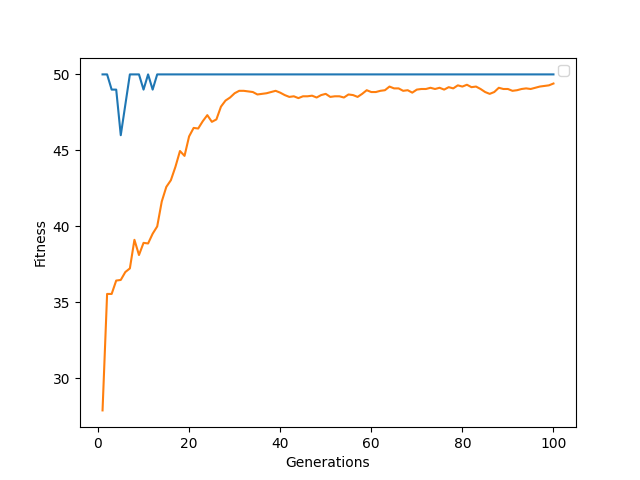
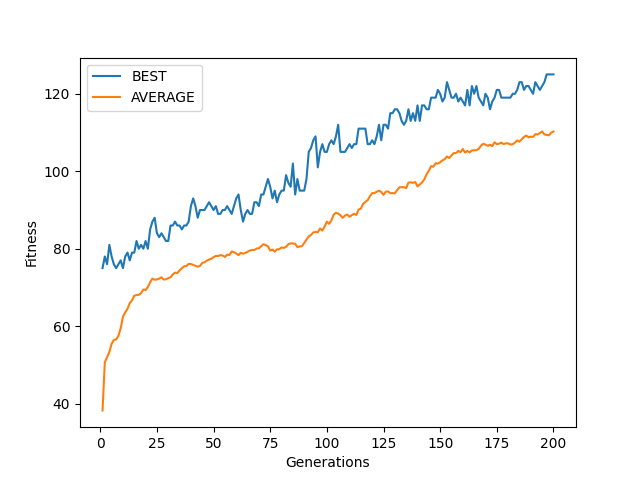
updated project

diff --git a/Evolution.py b/Evolution.py
@@ -20,8 +20,8 @@ def generateFirstPopulation(popSize:int,genomeSize:int)->list[individual]:
     ''' takes the populations desired size and the desired sixe of each '''
     individualList = []
     for x in range(popSize):
-        num_zeros = random.randint(0,genomeSize)
-        num_ones = genomeSize - num_zeros
+        num_ones = random.randint(0,genomeSize- genomeSize/2) 
+        num_zeros = genomeSize - num_ones
 
         listORandomBinary = [0]*num_zeros + [1]*num_ones
         random.shuffle(listORandomBinary)
@@ -64,11 +64,15 @@ def crossoverOffspring(survivorList: list[individual]):
         tempList2 += survivorList[i-1].genome[:halfLength]
         mutationIndex = random.randint(0,size_genome-1)
         if(tempList[mutationIndex] == 1):
-            tempList[mutationIndex] == random.randint(0,1)
+            tempList[mutationIndex] == 0
+        else:
+            tempList[mutationIndex]== 1
         if(tempList2[mutationIndex] == 1):
             tempList[mutationIndex] == random.randint(0,1)
         offspring.append(individual(tempList))
         offspring.append(individual(tempList2))
+
+        
 
     return offspring
 

diff --git a/display.py b/display.py
@@ -4,16 +4,19 @@ import matplotlib.pyplot as plt
 
 
 #from Evolution
-population = generateFirstPopulation(50,50)
+popS = int(input('Enter number of population members: '))
+genomeS = int(input('Enter number of genomes(even only): '))
+genS = int(input('Enter number of generations to graph: '))
+
+population = generateFirstPopulation(popS,genomeS)
 p = population
 fields =["Average","Best"]
 rows = []
-for x in range(100):
+for x in range(genS):
     results = simulateGeneration(p)
     p = results.get("NextGen")
     a = results.get("Average")
     b = results.get("Best")
-    print("Average:",a)
     rows.append([a,b])
 
 with open("data.csv",'w',newline="") as csvfile:
@@ -31,8 +34,8 @@ with open("data.csv",'w',newline="") as csvfile:
         best.append(r[1])
         avg.append(r[0])
 
-    plt.plot(generations,best, Label = "BEST")
-    plt.plot(generations,avg,Label = "AVERAGE")
+    plt.plot(generations,best, label = "BEST")
+    plt.plot(generations,avg,label = "AVERAGE")
 
     plt.legend()
     plt.xlabel('Generations')
